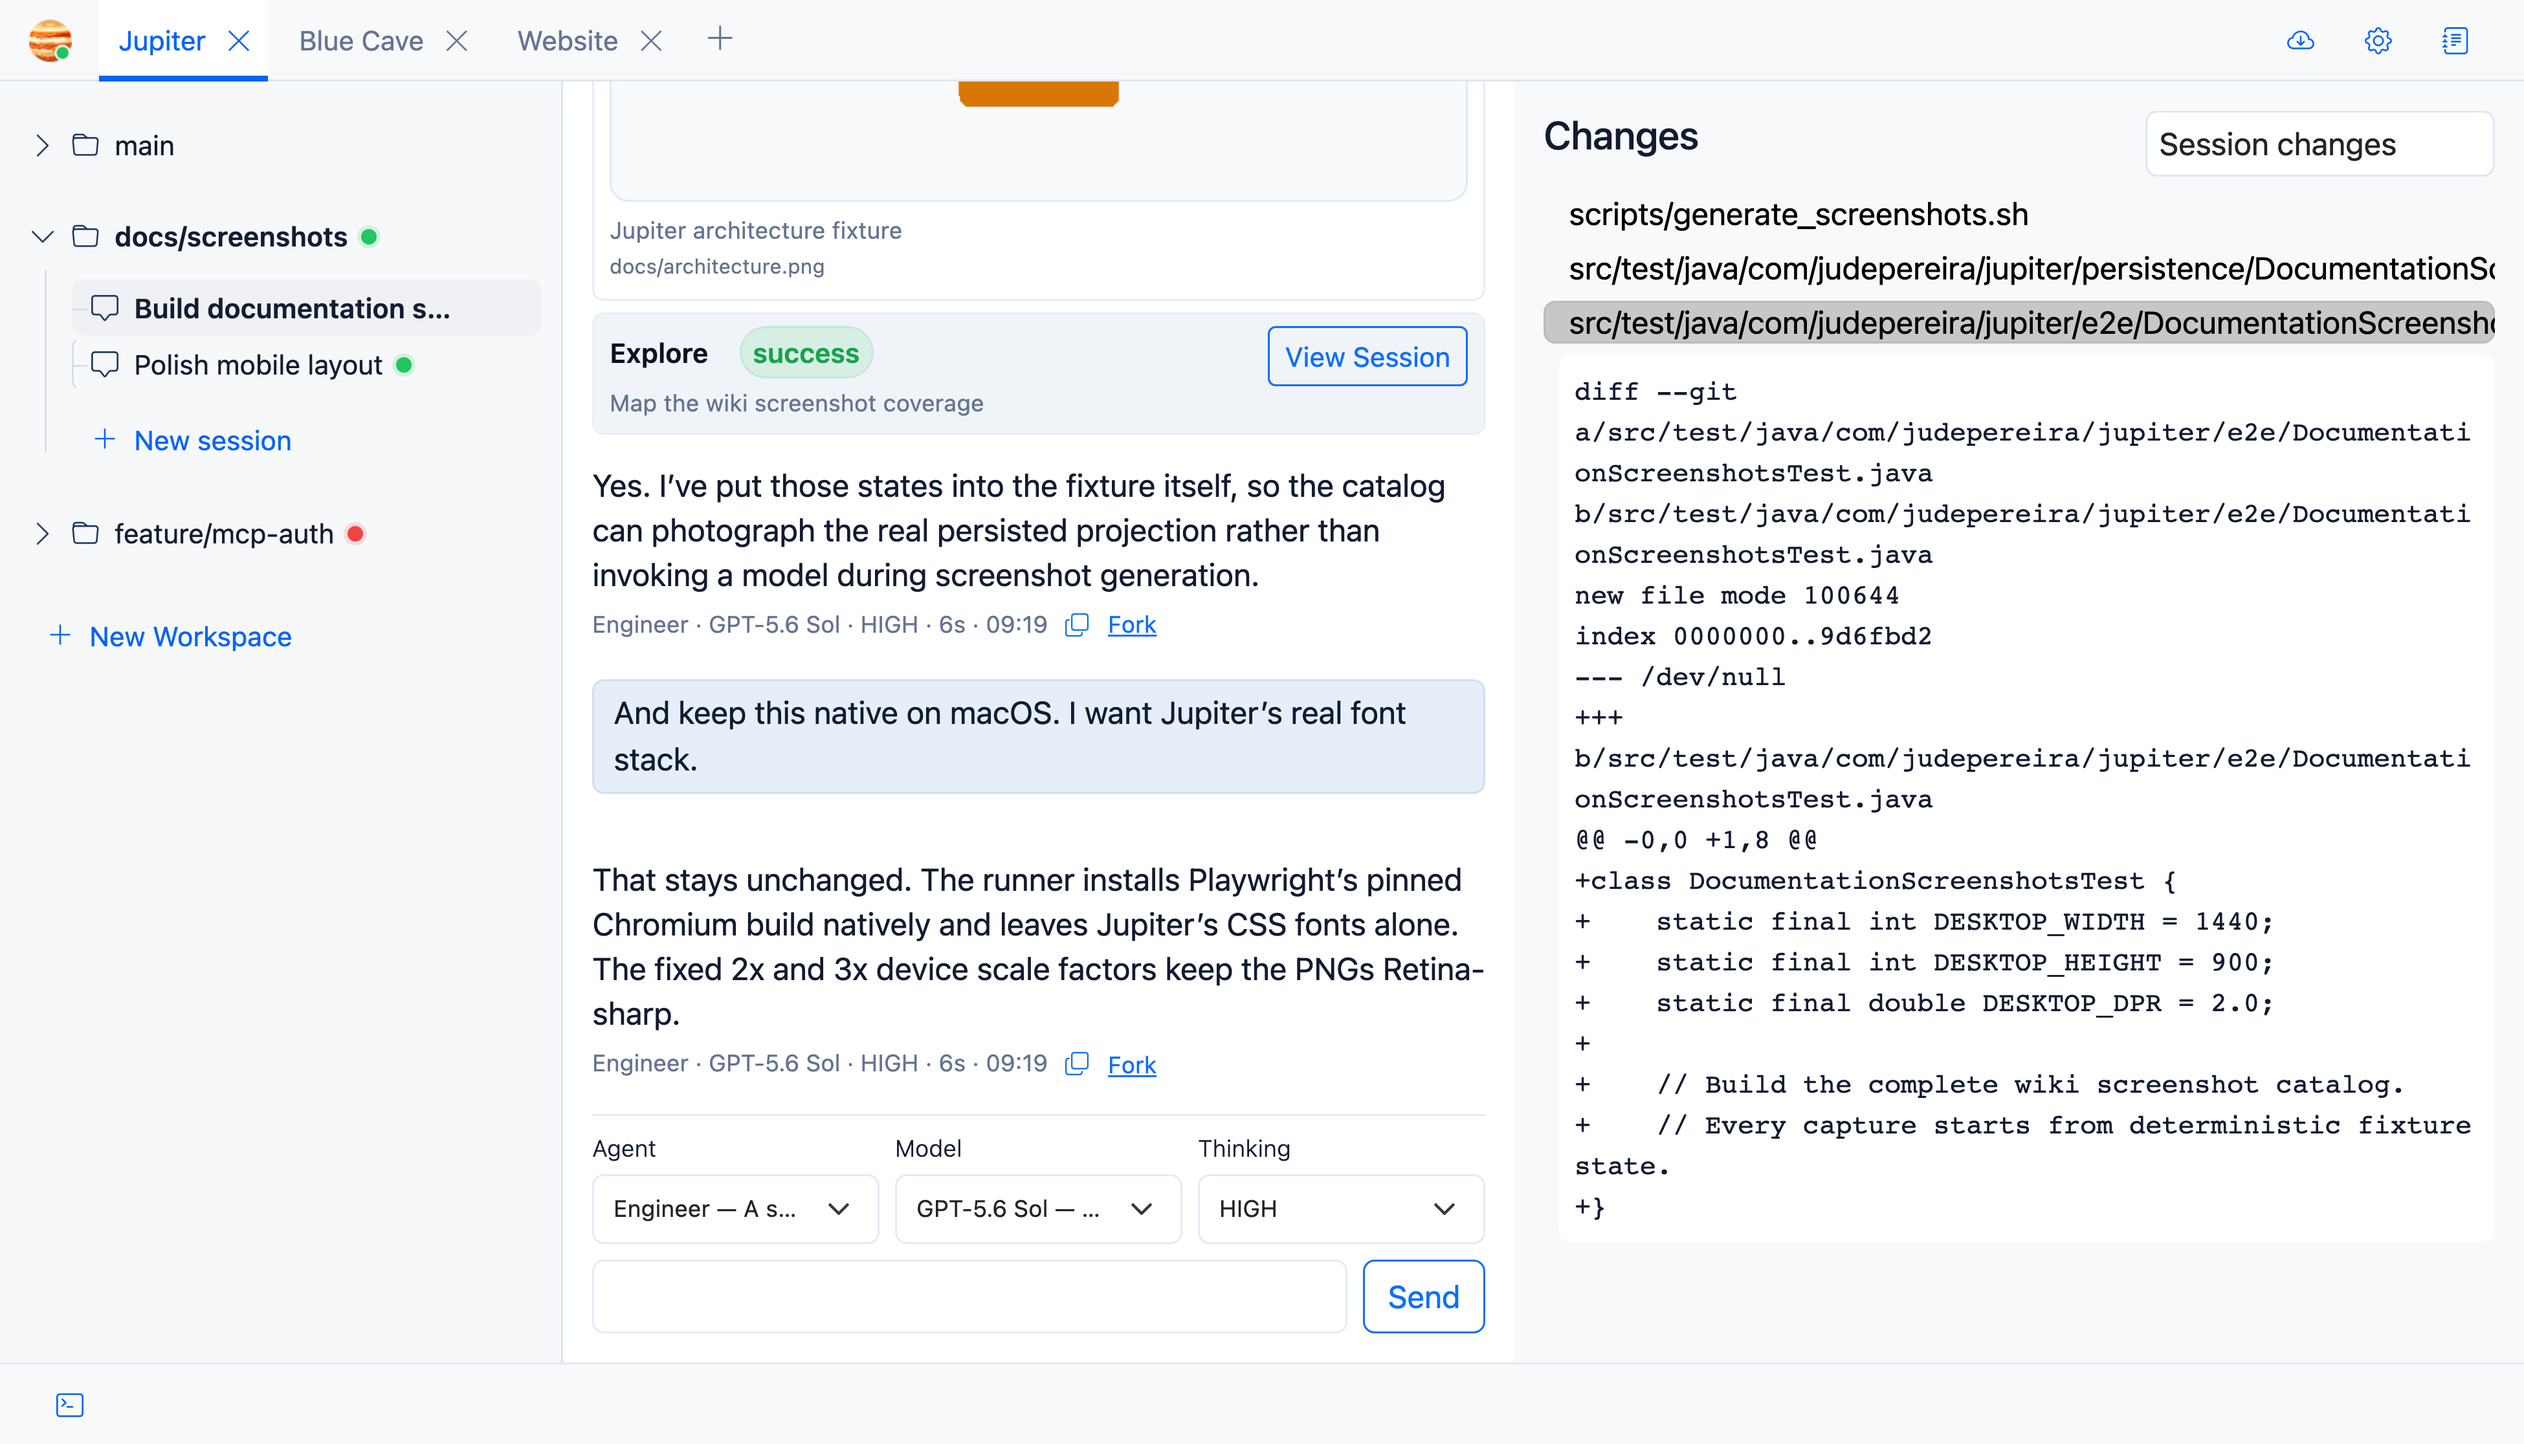
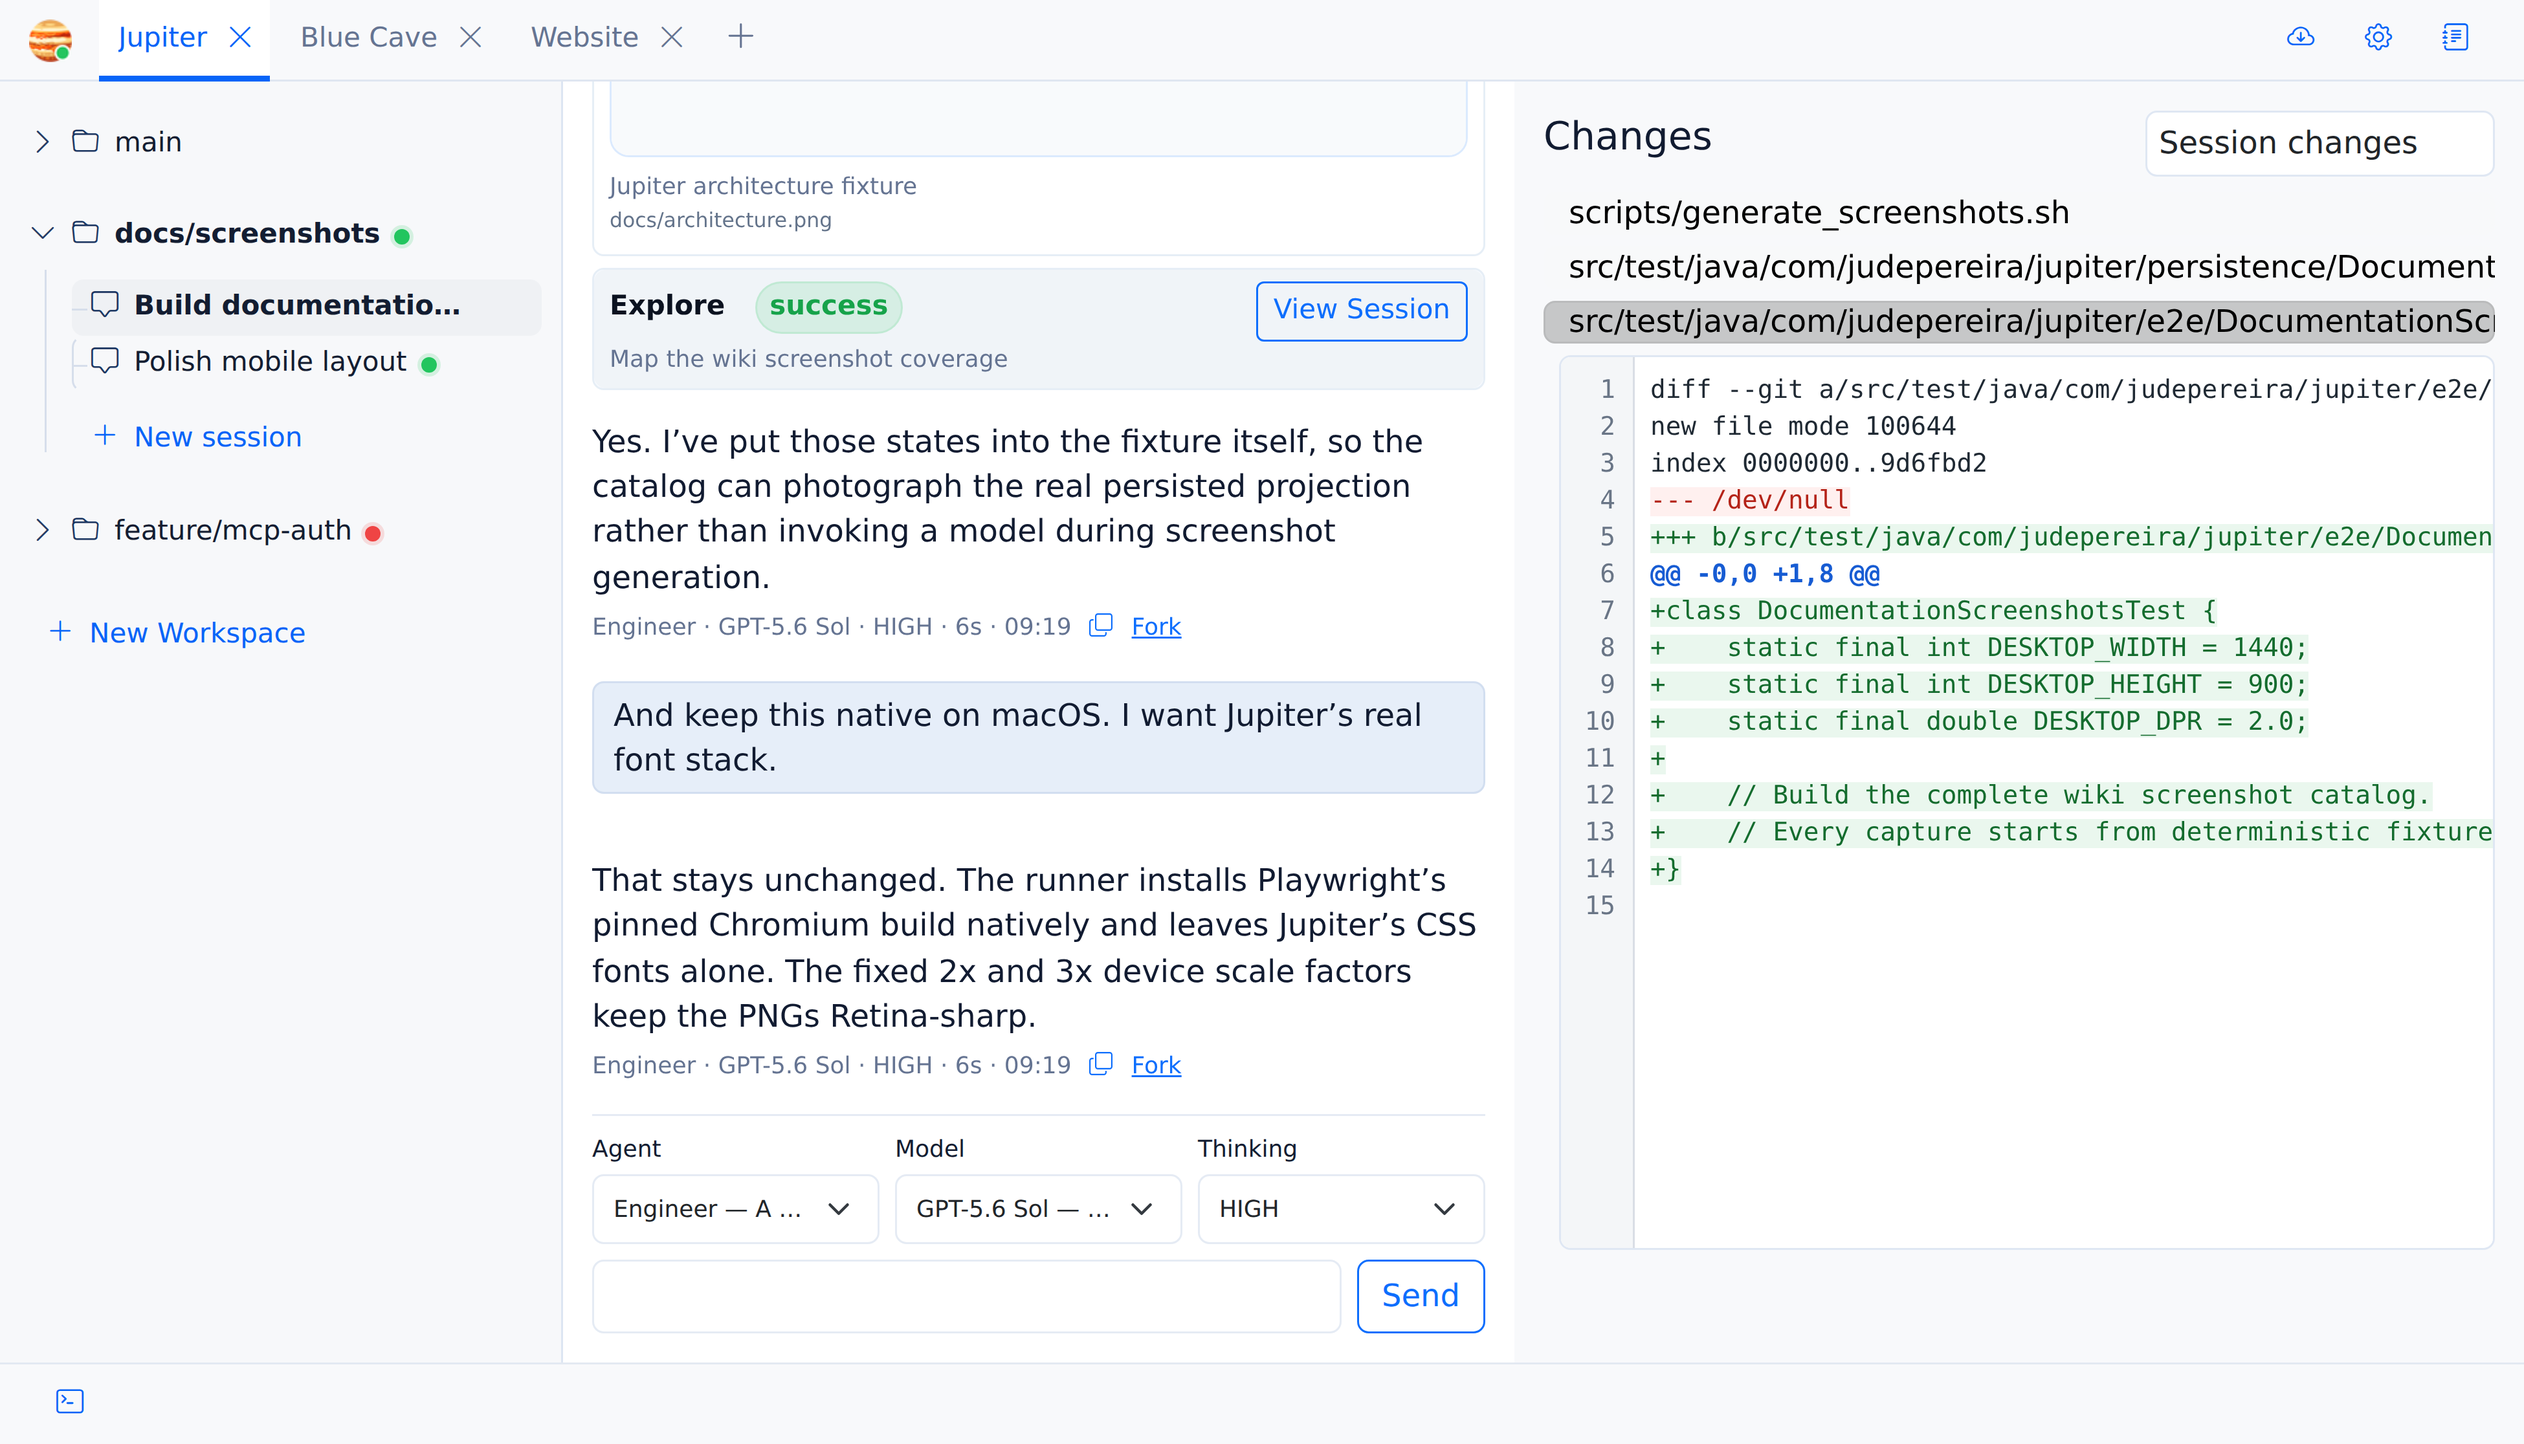
Add CodeMirror diff viewer

diff --git a/src/main/resources/static/js/diff-viewer.js b/src/main/resources/static/js/diff-viewer.js
@@ -1,0 +1,50 @@
+const viewers = new WeakMap();
+const sourcesByHost = new WeakMap();
+
+function disposeViewer(element) {
+    const viewer = viewers.get(element);
+    if (!viewer) return;
+
+    viewer.getWrapperElement().remove();
+    element.hidden = false;
+    viewers.delete(element);
+}
+
+function sourcesIn(root) {
+    const sources = [];
+    if (root.matches?.('#diff-content.diff-source')) sources.push(root);
+    root.querySelectorAll?.('#diff-content.diff-source').forEach((source) => sources.push(source));
+    if (root.matches?.('.diff-viewer-host')) {
+        const source = sourcesByHost.get(root);
+        if (source) sources.push(source);
+    }
+    return [...new Set(sources)];
+}
+
+function initDiffViewer(root = document) {
+    sourcesIn(root).forEach((element) => {
+        if (viewers.has(element) || typeof CodeMirror === 'undefined') return;
+        element.hidden = true;
+        const host = document.createElement('div');
+        host.className = 'diff-viewer-host';
+        element.after(host);
+        const viewer = CodeMirror(host, {
+            value: element.textContent || '',
+            mode: 'text/x-diff',
+            readOnly: true,
+            lineNumbers: true,
+            lineWrapping: false,
+            tabindex: 0,
+        });
+        viewer.getWrapperElement().classList.add('diff-viewer');
+        viewer.getWrapperElement().setAttribute('role', 'presentation');
+        viewers.set(element, viewer);
+        sourcesByHost.set(host, element);
+    });
+}
+
+document.addEventListener('DOMContentLoaded', () => initDiffViewer());
+document.addEventListener('htmx:afterSwap', (event) => initDiffViewer(event.target));
+document.addEventListener('htmx:beforeCleanupElement', (event) => {
+    sourcesIn(event.target).forEach(disposeViewer);
+});

diff --git a/src/main/resources/templates/index.html b/src/main/resources/templates/index.html
@@ -7,6 +7,8 @@
     <link href="/webjars/bootstrap/5.3.2/dist/css/bootstrap.min.css" rel="stylesheet">
     <link href="/webjars/bootstrap-icons/1.11.3/font/bootstrap-icons.css" rel="stylesheet">
     <link rel="stylesheet" href="/webjars/xterm/5.3.0/css/xterm.css">
+    <link rel="stylesheet" href="/webjars/codemirror/5.65.16/lib/codemirror.css">
+    <link rel="stylesheet" th:href="@{/css/diff-viewer.css}">
     <link rel="stylesheet" th:href="@{/css/tokens.css}">
     <link rel="stylesheet" th:href="@{/css/base.css}">
     <link rel="stylesheet" th:href="@{/css/projects.css}">
@@ -89,7 +91,10 @@
 <script src="/webjars/marked/18.0.5/lib/marked.umd.js"></script>
 <script src="/webjars/xterm/5.3.0/lib/xterm.js"></script>
     <script src="/webjars/xterm-addon-fit/0.8.0/lib/xterm-addon-fit.js"></script>
+<script src="/webjars/codemirror/5.65.16/lib/codemirror.js"></script>
+<script src="/webjars/codemirror/5.65.16/mode/diff/diff.js"></script>
 <script type="module" th:src="@{/js/connection-loss-monitor.js}"></script>
+<script type="module" th:src="@{/js/diff-viewer.js}"></script>
 <script type="module" th:src="@{/js/system-balloons.js}"></script>
 <script type="module" th:src="@{/js/workspace-branch-sanitizer.js}"></script>
 <script type="module" th:src="@{/js/left-rail-divider.js}"></script>

diff --git a/src/main/resources/static/css/diff-viewer.css b/src/main/resources/static/css/diff-viewer.css
@@ -1,0 +1,43 @@
+.file-diff {
+    min-width: 0;
+    overflow: hidden;
+}
+
+.file-diff .CodeMirror {
+    height: min(62vh, 680px);
+    min-height: 180px;
+    overflow: auto;
+    border: 1px solid var(--panel-border);
+    border-radius: 6px;
+    background: #fff;
+    color: #1f2933;
+    font: 0.82rem/1.45 ui-monospace, SFMono-Regular, Menlo, Consolas, monospace;
+}
+
+.file-diff .CodeMirror-lines {
+    padding: 8px 0;
+}
+
+.file-diff .CodeMirror pre.CodeMirror-line,
+.file-diff .CodeMirror pre.CodeMirror-line-like {
+    padding-left: 8px;
+}
+
+.file-diff .CodeMirror-gutters {
+    border-right: 1px solid #d9dee5;
+    background: #f4f6f8;
+}
+
+.file-diff .CodeMirror-linenumber {
+    color: #697586;
+    padding: 0 9px 0 7px;
+}
+
+.file-diff .cm-meta { color: #175cd3; font-weight: 600; }
+.file-diff .cm-positive { color: #146c2e; background: #eaf7ee; }
+.file-diff .cm-negative { color: #b42318; background: #fff0ef; }
+.file-diff .cm-header { color: #6941c6; font-weight: 600; }
+
+@media (max-width: 700px) {
+    .file-diff .CodeMirror { height: 55vh; font-size: 0.75rem; }
+}

diff --git a/src/main/resources/templates/fragments/file-diff.html b/src/main/resources/templates/fragments/file-diff.html
@@ -1,6 +1,6 @@
 <!doctype html>
 <div th:fragment="diff" class="file-diff-container">
-    <div class="file-diff">
-        <pre id="diff-content" th:text="${selectedFile != null ? selectedFile.diff : ''}"></pre>
+    <div class="file-diff" role="region" aria-label="File diff">
+        <pre id="diff-content" class="diff-source" tabindex="0" aria-label="Read-only file diff" th:text="${selectedFile != null ? selectedFile.diff : ''}"></pre>
     </div>
 </div>

diff --git a/src/main/resources/static/css/review.css b/src/main/resources/static/css/review.css
@@ -60,7 +60,7 @@
     flex-direction: column;
 }
 
-.file-diff pre {
+.file-diff pre.diff-source {
     white-space: pre-wrap;
     word-break: break-word;
     font-family: monospace;

diff --git a/src/test/java/com/judepereira/jupiter/e2e/ReviewSourceE2ETest.java b/src/test/java/com/judepereira/jupiter/e2e/ReviewSourceE2ETest.java
@@ -150,13 +150,14 @@ class ReviewSourceE2ETest extends E2ETestSupport {
                         response -> response.url().contains("/ui/review/file") && response.status() == 200,
                         firstFileButton::click);
                 assertReviewFileButtonActiveState(firstFileButton, true);
-                assertThat(page.locator("#diff-content")).containsText("first file diff");
+                assertDiffViewer(page, "first file diff\n");
 
                 page.waitForResponse(
                         response -> response.url().contains("/ui/review/file") && response.status() == 200,
                         firstFileButton::click);
                 assertReviewFileButtonActiveState(firstFileButton, false);
                 assertThat(page.locator("#diff-content")).hasCount(0);
+                assertThat(page.locator(".diff-viewer")).hasCount(0);
 
                 consoleErrors.clear();
 
@@ -164,7 +165,7 @@ class ReviewSourceE2ETest extends E2ETestSupport {
                         response -> response.url().contains("/ui/review/file") && response.status() == 200,
                         secondFileButton::click);
                 assertReviewFileButtonActiveState(secondFileButton, true);
-                assertThat(page.locator("#diff-content")).containsText("second file diff");
+                assertDiffViewer(page, "second file diff\n");
                 assertTrue(consoleErrors.isEmpty(), () -> "Console errors: " + consoleErrors);
 
                 page.waitForResponse(
@@ -172,6 +173,7 @@ class ReviewSourceE2ETest extends E2ETestSupport {
                         secondFileButton::click);
                 assertReviewFileButtonActiveState(secondFileButton, false);
                 assertThat(page.locator("#diff-content")).hasCount(0);
+                assertThat(page.locator(".diff-viewer")).hasCount(0);
             }
         } finally {
             if (previousHome == null) {
@@ -180,6 +182,19 @@ class ReviewSourceE2ETest extends E2ETestSupport {
                 System.setProperty("user.home", previousHome);
             }
         }
+    }
+
+    private static void assertDiffViewer(Page page, String expectedDiff) {
+        Locator source = page.locator("#diff-content");
+        assertThat(source).hasCount(1);
+        assertThat(source).hasText(expectedDiff.trim());
+        assertTrue(expectedDiff.equals(source.textContent()));
+        assertThat(source).hasAttribute("aria-label", "Read-only file diff");
+        assertThat(page.locator(".diff-viewer")).hasCount(1);
+        assertThat(page.locator(".diff-viewer")).hasAttribute("role", "presentation");
+        assertThat(page.locator(".diff-viewer textarea")).hasCount(1);
+        assertTrue((Boolean) page.locator(".diff-viewer textarea").evaluate("textarea => textarea.readOnly"));
+        assertThat(page.locator(".diff-viewer .CodeMirror-code")).containsText(expectedDiff.trim());
     }
 
     private static void assertReviewFileButtonActiveState(Locator fileButton, boolean active) {

diff --git a/src/test/java/com/judepereira/jupiter/e2e/DocumentationScreenshotsTest.java b/src/test/java/com/judepereira/jupiter/e2e/DocumentationScreenshotsTest.java
@@ -252,7 +252,7 @@ class DocumentationScreenshotsTest extends E2ETestSupport {
     private static void captureReviewAndDiffs(RunningApp app, Fixture fixture, Path outputDir) throws Exception {
         captureDesktop(app, fixture, true, outputDir.resolve("review-and-diffs.png"), page -> {
             page.locator("#review-panel").waitFor();
-            page.locator("#review-panel pre").first().waitFor();
+            page.locator("#review-panel .diff-viewer").first().waitFor();
             settlePage(page);
         });
     }

diff --git a/.wiki/Review-and-Diffs.md b/.wiki/Review-and-Diffs.md
@@ -20,4 +20,4 @@ This is the broader truth and will also catch edits made outside the agent trace
 
 The selected review source, selected file, and panel visibility are persisted with the session.
 
-The panel is deliberately just a diff inspection surface. Git history and external code-review tooling still do what they do best.
+The panel is deliberately just a diff inspection surface. Git history and external code-review tooling still do what they do best. Diffs are shown in a read-only, scrollable CodeMirror viewer with line numbers and syntax-aware colors; the original `#diff-content` text remains available for accessible and automated text inspection.

diff --git a/.wiki/Feature-Inventory.md b/.wiki/Feature-Inventory.md
@@ -60,6 +60,7 @@ This is the boring-but-useful v1 checklist. When a user-visible feature lands, r
 - desktop and mobile layouts
 - connection-loss overlay
 - resizable panels
+- read-only, line-numbered unified diff viewer
 - global keyboard shortcuts
 
 ## Security and deployment
